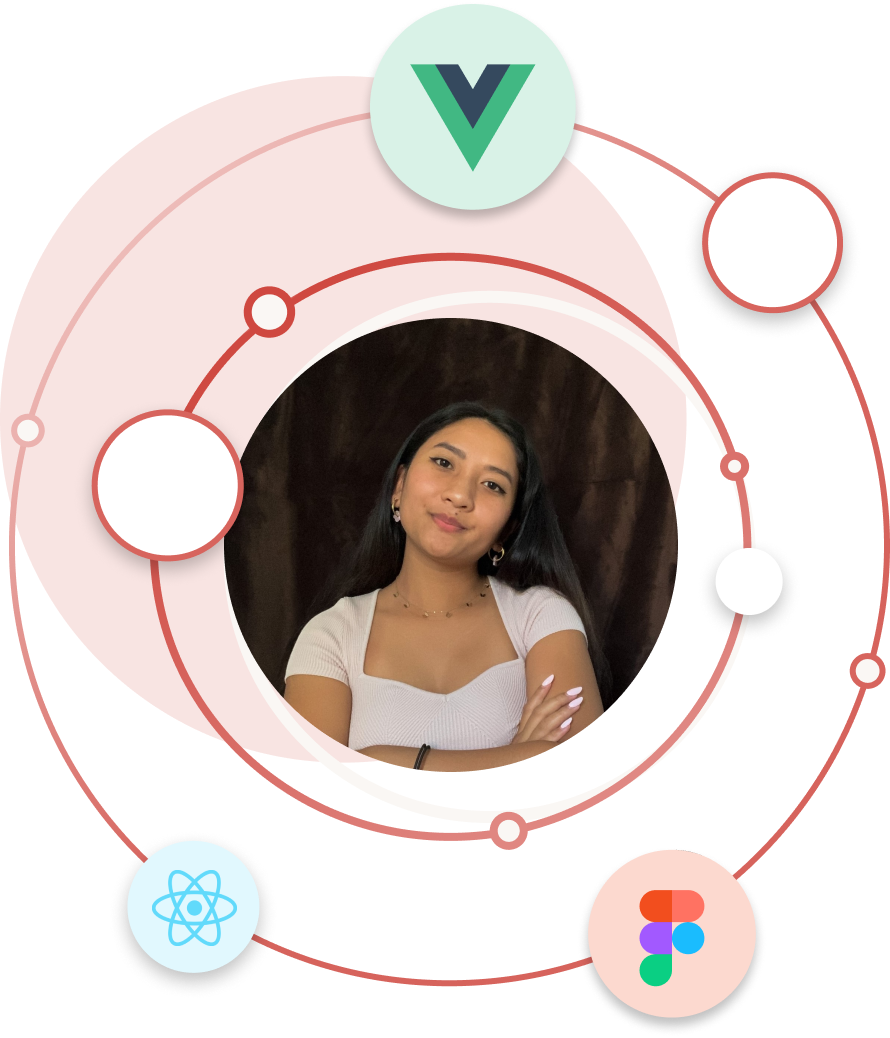
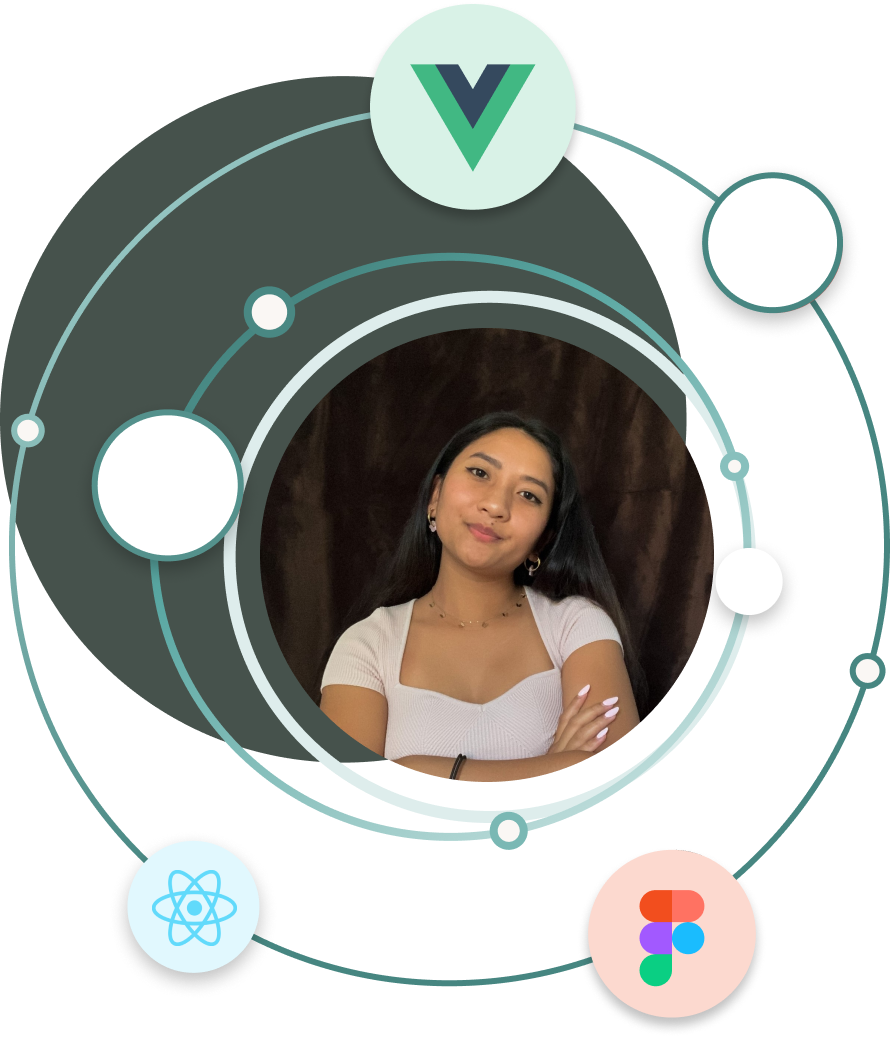
add new hero

diff --git a/src/components/particles/LinkParticle.vue b/src/components/particles/LinkParticle.vue
@@ -1,0 +1,107 @@
+<script setup>
+import {computed} from "vue"
+
+const buttons = defineProps({
+  title: {
+    type: String,
+    required: false,
+  },
+  color: String,
+  routeLink: String,
+  iconBefore: {
+    type: String,
+    required: false,
+  },
+  iconAfter: {
+    type: String,
+    required: false,
+  },
+})
+
+const colorClass = computed(() => `color-${buttons.color}`)
+const getIconUrl = (image) => {
+  return new URL(`/src/assets/icons/${image}`, import.meta.url).href
+}
+</script>
+
+<template>
+  <RouterLink :to="buttons.routeLink" :title="routeLink" :class="[colorClass]" class="btn">
+    <img v-if="iconBefore" class="link-icon-before icomoon" :src="getIconUrl(buttons.iconBefore)" />
+    {{ buttons.title }}
+    <img v-if="iconAfter" class="link-icon-after icomoon" :src="getIconUrl(buttons.iconAfter)" />
+  </RouterLink>
+</template>
+
+<style scoped>
+.btn {
+  display: flex;
+  text-align: center;
+  padding: 6px 12px;
+  border-radius: 6px;
+  font-weight: 600;
+  border: none;
+  font-size: 16px;
+  cursor: pointer;
+  transition: transform 1s;
+  width: fit-content;
+  height: fit-content;
+  align-items: center;
+  transform: perspective(1px) translateZ(0);
+  position: relative;
+  transition: color 0.3s;
+  /* gap: 8px; */
+
+  &:hover {
+    /* transform: scale(1.06); */
+  }
+}
+
+.btn > img:last-child {
+  margin-left: 8px;
+}
+
+.btn {
+  /* box-shadow: inset 0 0 0 0 #54b3d6; 
+  color: #54b3d6;  */
+
+  transition: color 0.3s ease-in-out, box-shadow 0.3s ease-in-out;
+}
+.btn:hover {
+  color: #fff;
+  box-shadow: inset 200px 0 0 0 black;
+}
+
+.color-melon {
+  box-shadow: inset 0 0 0 0 var(--melon-900);
+  color: var(--melon-500);
+  transition: color 0.3s ease-in-out, box-shadow 0.3s ease-in-out;
+  background-color: var(--melon-900);
+
+  &:hover {
+    color: white;
+    box-shadow: inset 200px 0 0 0 var(--melon-500);
+  }
+}
+
+.color-mint {
+  color: var(--mint-300);
+  box-shadow: inset 0 0 0 0 var(--mint-500);
+  background-color: var(--mint-800);
+
+  &:hover {
+    color: white;
+    box-shadow: inset 200px 0 0 0 var(--mint-300);
+  }
+}
+
+.color-olive {
+  color: var(--olive-200);
+  background-color: var(--olive-1000);
+  box-shadow: inset 0 0 0 0 var(--olive-1000);
+
+  &:hover {
+    color: white;
+    box-shadow: inset 200px 0 0 0 var(--olive-500);
+  }
+}
+</style>

diff --git a/src/components/layout/Hero.vue b/src/components/layout/Hero.vue
@@ -1,27 +1,44 @@
-<script setup>
-import Navbar from "./Navbar.vue"
-</script>
+<script setup></script>
 <template>
-  <section class="bg-darkOlive-200 rounded-b-2xl container px-10">
-    <Navbar />
-
-    <div class="flex justify-between text-darkOlive-980 px-8 py-40">
-      <div class="max-w-xl flex flex-col gap-5">
-        <h1 class="font-neueKaine font-extrabold text-5xl">
-          Hello,
-          <br />
-          je m'appelle
-          <br />
-          <span class="text-melon-700">Oriane Frouin !</span>
-        </h1>
-        <p class="max-w-md">
-          Embarquez dans mon univers, du <strong>design</strong> au
-          <strong>développement web</strong> en passant par le <strong>marketing</strong>, je vous
-          livre tous les secrets de mon voyage !
-        </p>
-        <div></div>
+  <section class="bg-darkOlive-200 hero">
+    <img src="../../assets/img/waves.svg" class="absolute w-full img-bg" />
+    <div class="container">
+      <div class="flex justify-between text-darkOlive-980 py-20 items-center">
+        <div class="max-w-xl flex flex-col gap-5">
+          <h1 class="font-neueKaine font-extrabold text-5xl">
+            Hello,
+            <br />
+            je m'appelle
+            <br />
+            <span class="text-melon-700">Oriane Frouin !</span>
+          </h1>
+          <p class="max-w-md">
+            Embarquez dans mon univers, du <strong>design</strong> au
+            <strong>développement web</strong> en passant par le <strong>marketing</strong>, je vous
+            livre tous les secrets de mon voyage !
+          </p>
+          <div></div>
+        </div>
+        <div>
+          <img src="/src/assets/img/hero-image.png" class="hero-img" />
+        </div>
       </div>
-      <div><img src="/src/assets/img/hero-image.png" class="h-96 w-96 object-contain" /></div>
     </div>
   </section>
 </template>
+
+<style scoped>
+.hero-img {
+  height: 500px;
+  width: 445px;
+  object-fit: contain;
+}
+.img-bg {
+  top: 524px;
+}
+
+.hero {
+  margin-bottom: 350px;
+  padding-bottom: 160px;
+}
+</style>

diff --git a/src/App.vue b/src/App.vue
@@ -1,35 +1,31 @@
 <script setup>
 import {RouterLink, RouterView} from "vue-router"
 import Hero from "./components/layout/Hero.vue"
+import Navbar from "./components/layout/Navbar.vue"
 </script>
 
 <template>
-  <header>
-    <div class="w-full">
-      <Hero />
-      <!-- <RouterLink to="/">Accueil</RouterLink>
+  <Navbar />
+  <!-- <RouterLink to="/">Accueil</RouterLink>
       <RouterLink to="/profil">Profil</RouterLink>
       <RouterLink to="/projets">Projets</RouterLink>
       <RouterLink to="/projets">Projets details</RouterLink>
       <RouterLink to="/contact">Contact</RouterLink> -->
-    </div>
-  </header>
-
   <RouterView />
 </template>
 
 <style scoped>
-header {
+/* header {
   line-height: 1.5;
   max-height: 100vh;
-}
+} */
 
-nav {
+/* nav {
   width: 100%;
   font-size: 12px;
   text-align: center;
   margin-top: 2rem;
-}
+} */
 
 nav a.router-link-exact-active {
   color: var(--color-text);
@@ -50,29 +46,29 @@ nav a:first-of-type {
 }
 
 @media (min-width: 1024px) {
-  header {
+  /* header {
     display: flex;
     place-items: center;
     padding-right: calc(var(--section-gap) / 2);
-  }
+  } */
 
   .logo {
     margin: 0 2rem 0 0;
   }
 
-  header .wrapper {
+  /* header .wrapper {
     display: flex;
     place-items: flex-start;
     flex-wrap: wrap;
-  }
+  } */
 
-  nav {
+  /* nav {
     text-align: left;
     margin-left: -1rem;
     font-size: 1rem;
 
     padding: 1rem 0;
     margin-top: 1rem;
-  }
+  } */
 }
 </style>

diff --git a/src/components/layout/Navbar.vue b/src/components/layout/Navbar.vue
@@ -1,10 +1,21 @@
-<script setup></script>
+<script setup>
+import LinkParticle from "../particles/LinkParticle.vue"
+</script>
 <template>
-  <nav class="flex justify-between items-center">
-    <RouterLink to="/" class="font-neueKaine font-extrabold text-darkOlive-980">ori</RouterLink>
-    <div>
-      <RouterLink to="/profil">Mon profil</RouterLink>
-      <RouterLink to="/profil">Mes projets</RouterLink>
+  <nav class="bg-darkOlive-200 h-16 flex items-center sticky top-0 z-50">
+    <div class="container">
+      <div class="flex justify-between items-center">
+        <RouterLink
+          to="/"
+          class="font-neueKaine font-extrabold text-darkOlive-980 py-2 px-4 rounded-lg text-4xl"
+          >ori</RouterLink
+        >
+        <div class="flex gap-8">
+          <RouterLink to="/profil" class="py-2 px-4 rounded-lg">Mon profil</RouterLink>
+          <RouterLink to="/projets" class="py-2 px-4 rounded-lg">Mes projets</RouterLink>
+          <LinkParticle to="/contact" title="Me contacter" color="mint" />
+        </div>
+      </div>
     </div>
   </nav>
 </template>

diff --git a/src/assets/main.css b/src/assets/main.css
@@ -1,14 +1,15 @@
+@import "./base.css";
 @tailwind base;
 @tailwind components;
 @tailwind utilities;
-@import "./base.css";
 
 a,
 .green {
   text-decoration: none;
-  color: hsla(160, 100%, 37%, 1);
+  color: #faf4f4;
   transition: 0.4s;
   padding: 3px;
+  font-weight: 500;
 }
 
 body {
@@ -60,6 +61,7 @@ a {
 
 @media (hover: hover) {
   a:hover {
-    background-color: hsla(160, 100%, 37%, 0.2);
+    background-color: hsl(153, 8%, 23%);
+    color: hsl(176, 31%, 70%);
   }
 }

diff --git a/src/assets/base.css b/src/assets/base.css
@@ -4,3 +4,16 @@
   font-family: "Neue Kaine";
   src: url("../assets/fonts/neue-kaine-variable.ttf") format("truetype");
 }
+
+:root {
+  --melon-500: hsl(7, 64%, 50%);
+  --melon-900: hsl(7, 64%, 87%);
+
+  --mint-300: hsl(176, 31%, 30%);
+  --mint-500: hsl(176, 31%, 50%);
+  --mint-800: hsl(176, 31%, 80%);
+
+  --olive-200: hsl(150, 9%, 18%);
+  --olive-500: hsl(150, 9%, 50%);
+  --olive-1000: hsl(150, 9%, 100%);
+}

diff --git a/src/views/HomeView.vue b/src/views/HomeView.vue
@@ -2,12 +2,14 @@
 import HomeSkills from "../components/home/HomeSkills.vue"
 import HomeCurrent from "../components/home/HomeCurrent.vue"
 import HomeProjects from "@/components/home/HomeProjects.vue"
+import Hero from "@/components/layout/Hero.vue"
 </script>
 
 <template>
   <main>
-    <HomeSkills />
+    <Hero />
     <HomeCurrent />
+    <HomeSkills />
     <HomeProjects />
   </main>
 </template>
